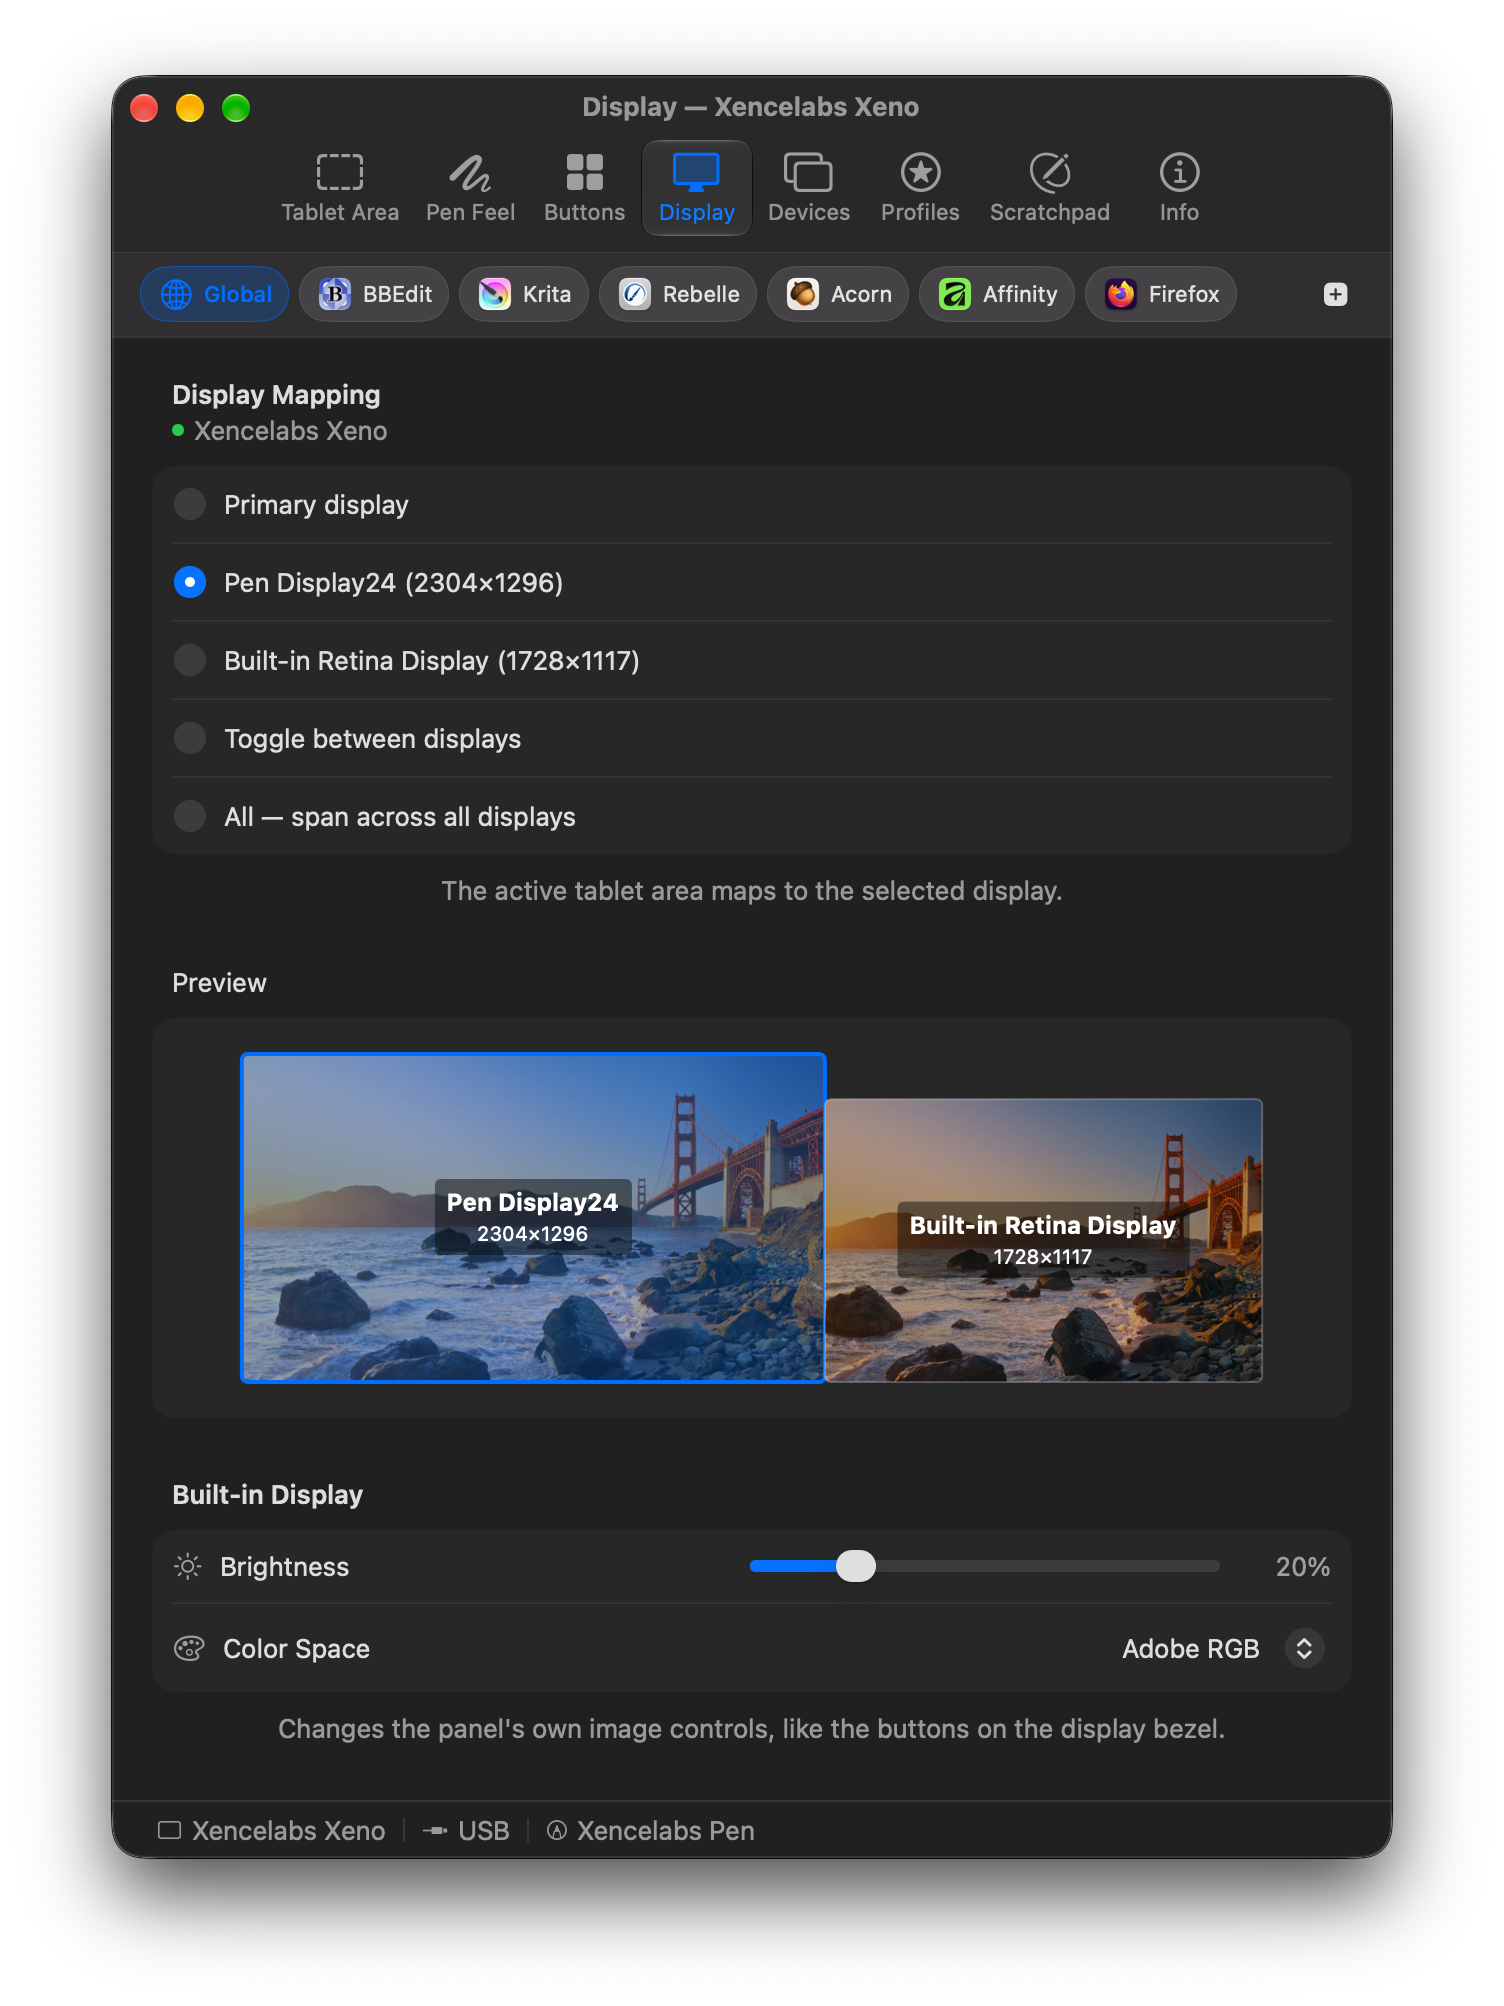
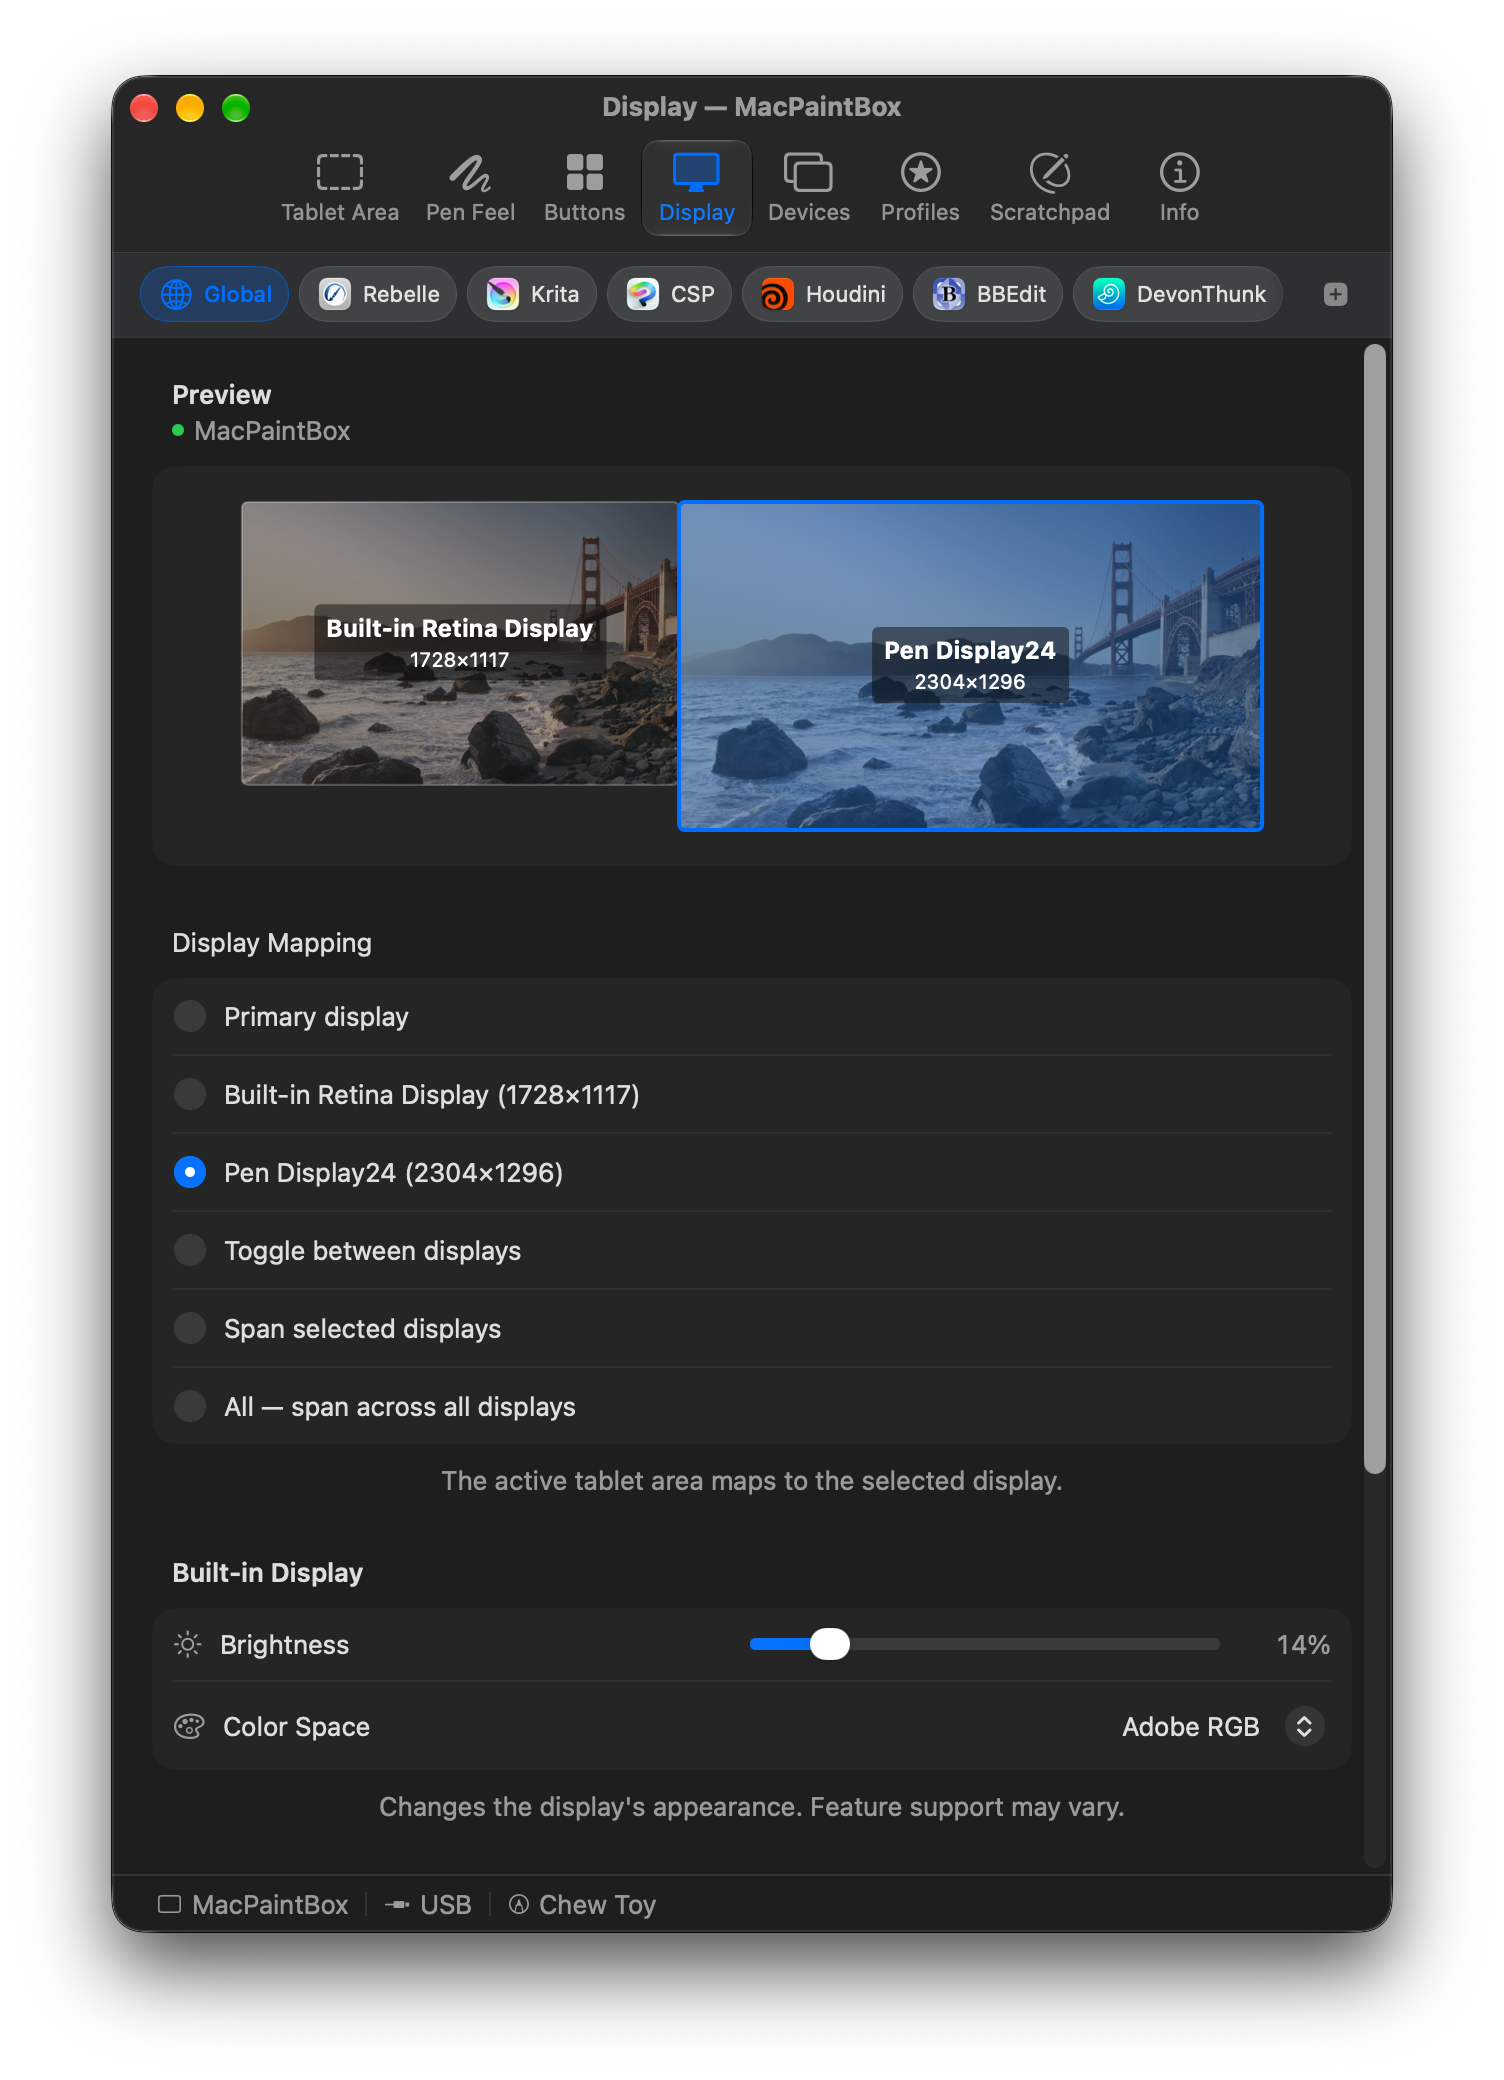
Add Clip Studio Paint notes and Displays screenshots

diff --git a/configuration.html b/configuration.html
@@ -142,6 +142,22 @@
                 <img class="shot dark" src="images/config/affinity-3-brush-rotation-2026.png" width="703" height="621" alt="Affinity brush dynamics panel with rotation bound to nib angle (dark)" />
             </div>
 
+            <h3 id="clip-studio-paint">Clip Studio Paint</h3>
+            <p>
+                Clip Studio Paint reads Art Pen rotation. In
+                <strong>Brush tip</strong>, open the <strong>Angle</strong>
+                dynamics and choose <em>Pen tilt</em>. The brush then
+                follows the physical rotation of the pen barrel.
+            </p>
+            <div class="shot-wrap">
+                <img class="shot light" src="images/config/clip-studio-paint-brush-rotation-2026.png" width="582" height="326" alt="Clip Studio Paint Advanced Tool Settings with the Angle control for brush tip rotation" />
+                <img class="shot dark" src="images/config/clip-studio-paint-brush-rotation-2026.png" width="582" height="326" alt="Clip Studio Paint Advanced Tool Settings with the Angle control for brush tip rotation (dark)" />
+            </div>
+            <div class="shot-wrap">
+                <img class="shot light" src="images/config/clip-studio-paint-angle-dynamics-2026.png" width="318" height="137" alt="Clip Studio Paint Angle Dynamics with Pen tilt selected" />
+                <img class="shot dark" src="images/config/clip-studio-paint-angle-dynamics-2026.png" width="318" height="137" alt="Clip Studio Paint Angle Dynamics with Pen tilt selected (dark)" />
+            </div>
+
             <h3 id="illustrator">Adobe Illustrator</h3>
             <p>
                 In Illustrator's brush options dialog, set the per-brush
